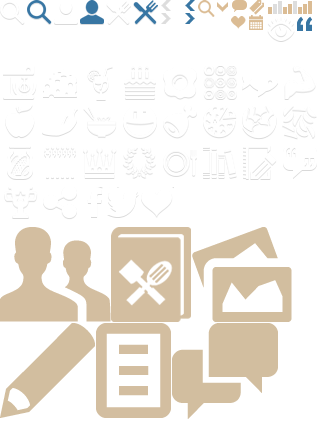
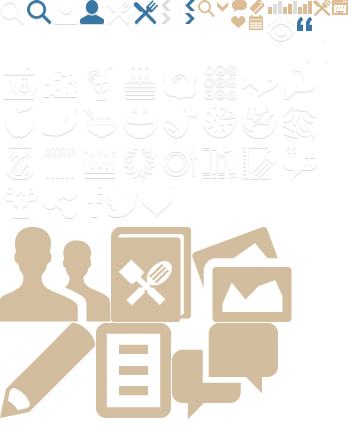
L'icône de difficulté ne correspond pas à la réalité : temps

diff --git a/src/MealSquare/CommonBundle/Resources/public/css/style.css b/src/MealSquare/CommonBundle/Resources/public/css/style.css
@@ -764,6 +764,8 @@ div.uploader.disabled.active span.action 		{}
 .i-easy				{background-position:-268px 0;width:14px;height:13px;}
 .i-medium			{background-position:-283px 0;width:14px;height:13px;}
 .i-hard				{background-position:-298px 0;width:14px;height:13px;}
+.i-preparation				{background-position:-313px 0;width:19px;height:14px;}
+.i-cuisson				{background-position:-332px 0;width:19px;height:14px;}
 
 .i-members			{background-position:0 -225px;width:111px;height:95px;}
 .i-recipes			{background-position:-111px -225px;width:80px;height:95px;}

diff --git a/src/MealSquare/RecetteBundle/Form/RecetteEditType.php b/src/MealSquare/RecetteBundle/Form/RecetteEditType.php
@@ -57,6 +57,7 @@ class RecetteEditType extends AbstractType
                     'by_reference' => false
             ))
             ->add('pays',"genemu_jqueryselect2_country", array(
+                'required'  => false,
                 'empty_value' => 'Pays' 
             ))
             ->add('saison', 'choice', array(
